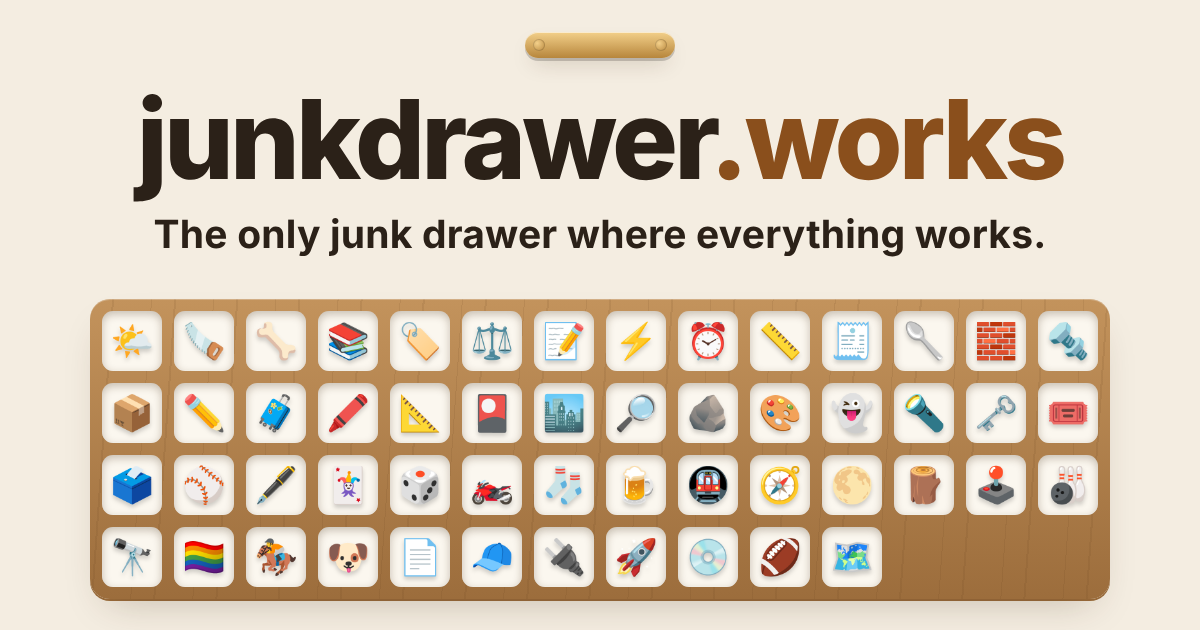
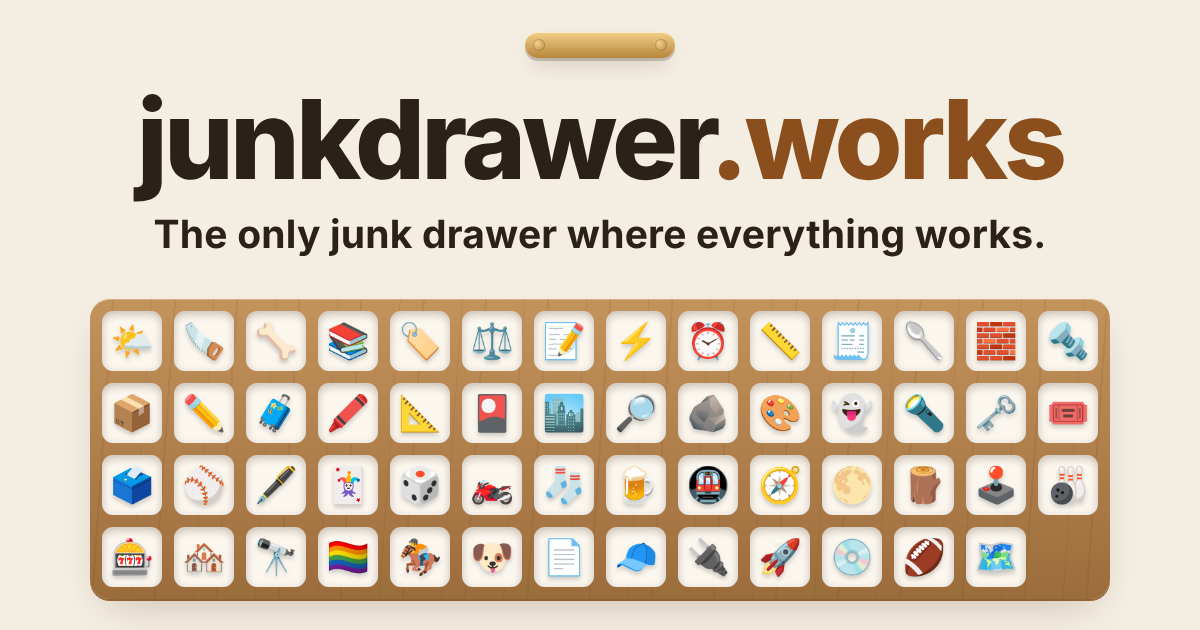
Add Boomtown to the Games tray
An around-the-board game at boomtown.junkdrawer.works: buy lots in a
town that isn't built yet, build on them, and be the richest on
Founders' Day. Redraws the drawer's share image for the new tile.

Claude-Session: https://claude.ai/code/session_01PQbLNVJ8KKLwSDBzcGfBFP

Changed region(s): [[0.2158, 0.8143, 0.8633, 0.9349], [0.1542, 0.8444, 0.185, 0.9349], [0.0925, 0.8444, 0.1233, 0.9349]]

diff --git a/index.html b/index.html
@@ -535,6 +535,13 @@
         <p>A casino played with chips that cost nothing: blackjack, roulette, craps, baccarat, video poker and three slot machines, all on one stack. Run dry and the cage stakes you another 1,000.</p>
         <span class="go" aria-hidden="true">Open →</span>
       </a>
+      <a class="slot" href="https://boomtown.junkdrawer.works/">
+        <span class="obj" aria-hidden="true">🏘</span>
+        <span class="label">New</span>
+        <h3>Boomtown</h3>
+        <p>Go round the board buying lots in a town that isn’t built yet, and build houses, shops and blocks on them. Whoever is worth the most on Founders’ Day wins. Play the townsfolk or pass the phone.</p>
+        <span class="go" aria-hidden="true">Open →</span>
+      </a>
       </div>
     </section>
 
